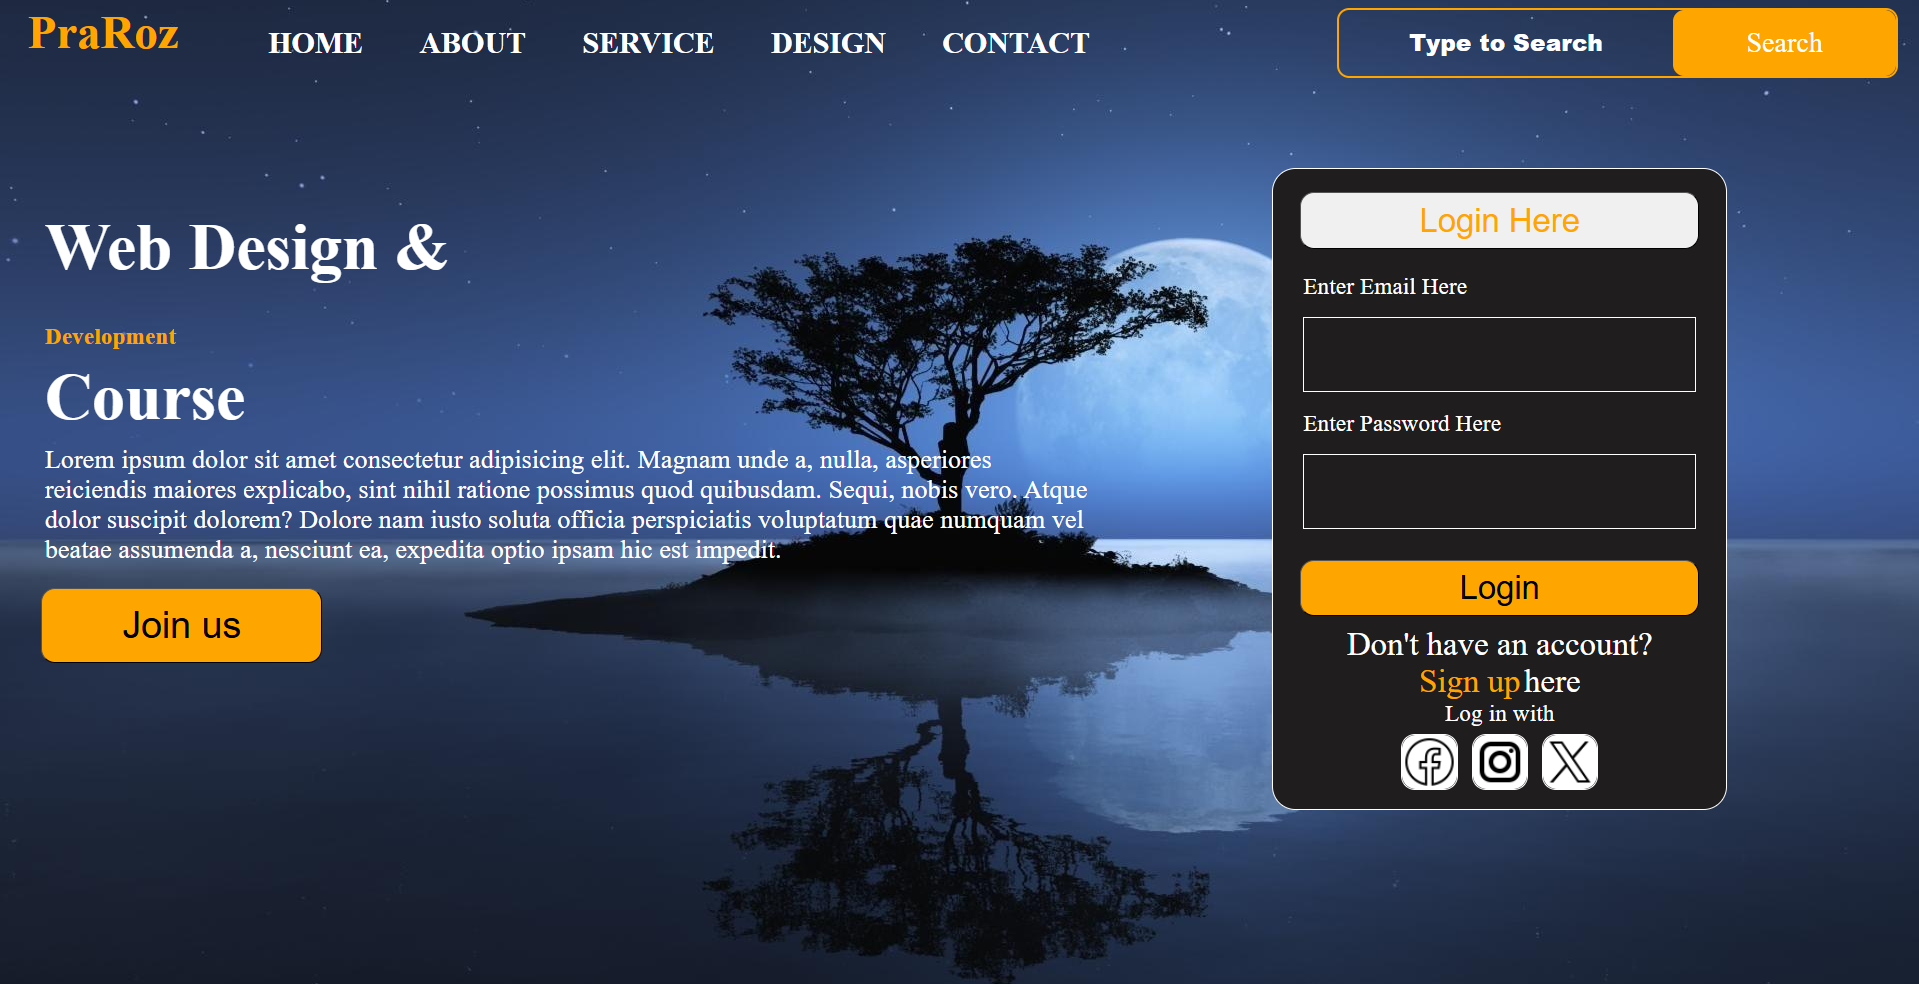
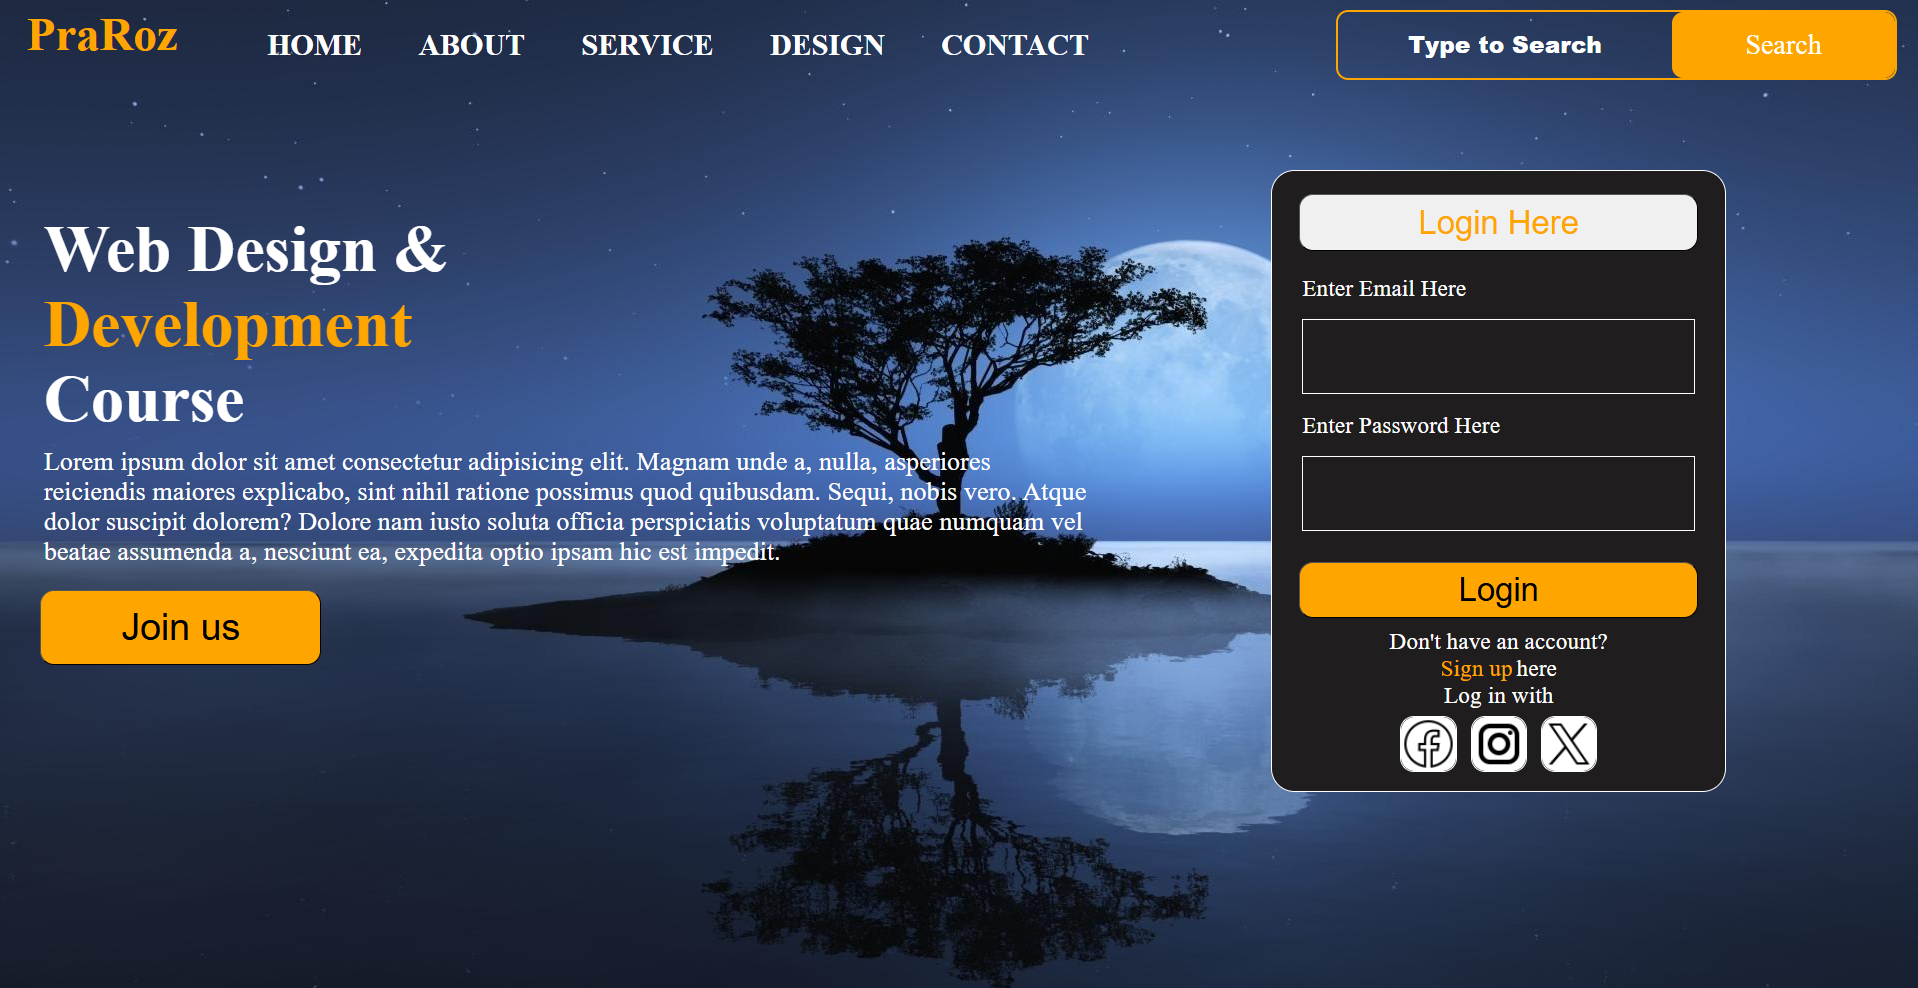
Code Deployed

diff --git a/layout_6/css/index.css b/layout_6/css/index.css
@@ -309,7 +309,7 @@ body{
     justify-content: center;
     gap: 15px;
 }
-span{
+.login-form span{
     color: white;
     font-size: 25px;
 }
